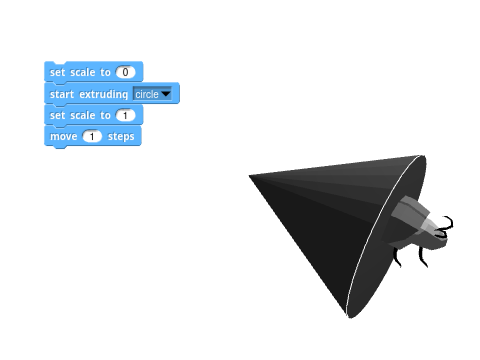
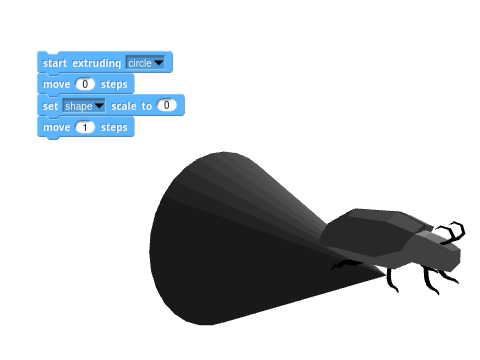
updated docs

Changed region(s): [[0.3125, 0.3972, 0.9688, 0.9167], [0.0625, 0.1222, 0.4062, 0.4278]]

diff --git a/docs/index.md b/docs/index.md
@@ -1,6 +1,6 @@
 # 3D Beetle Extension
 ## A Tiny Bit of History
-The 3D Beetle extension is heavily inspired in [Beetle Blocks](http://beetleblocks.com) Snap*!* mod, orignally designed by Eric Rosenbaum and Duks Koschitz and developed by Bernat Romagosa during the years 2014-2020.
+The 3D Beetle extension is heavily inspired in [Beetle Blocks](http://beetleblocks.com) Snap<em>!</em> mod, orignally designed by Eric Rosenbaum and Duks Koschitz and developed by Bernat Romagosa during the years 2014-2020.
 
 Beetle Blocks was aimed at 3D fabrication, especially targetting 3D printing, which is why the 3D Beetle extension also allows exporting the generated geometry for 3D printing.
 
@@ -23,7 +23,7 @@ This character is to 3D what the Lego turtle is to 2D. Turtles can move on a 2D 
 
 ### Movement and Rotation
 
-You can **move** and **rotate** the Beetle by using its particular movement and rotation blocks. These work very much like the usual *Motion* blocks in Snap*!*, but the extra Z axis makes things slightly more complicated.
+You can **move** and **rotate** the Beetle by using its particular movement and rotation blocks. These work very much like the usual *Motion* blocks in Snap<em>!</em>, but the extra Z axis makes things slightly more complicated.
 
 ![The movement and rotation axes](axes.png)
 
@@ -186,31 +186,46 @@ This can be easily achieved by passing in a list of three points that describe a
 
 ![](proper_cone.png)
 
-A different way to think of a cone is a circular extrusion that scales up from size zero to size one.
+A different way to think of a cone is a circular extrusion that scales down into a point while being extruded.
 
-In the 3D Beetle extension, the global scale affects both the size of your extrusion shapes and the distance of movement of the beetle. For this reason, if you try to move when you've set the scale to zero you'll find out that the beetle doesn't move at all. That's why you need to start from a scale zero, then set it to one, and then move.
+The 3D Beetle extension provides a block that lets you change the scale of the extrusion base, as well as the scale of the movement of the beetle.
+
+To make a cone, you can start by extruding a 0-step circle, then setting the shape scale to zero, then moving as many steps as deep you want your cone to be.
 
 ![](scaled_cone.png)
 
-### Pyramid
+### Staired Pyramid
 
 A pyramid can also be thought of in different ways. An obvious one is to stack a bunch of flat square boxes one on top of the other in decreasing sizes.
 
 ![](pyramid_sketch.png)
 
-To achieve this in the 3D Beetle extension you can again make use of the global scale. Is is important to remember that scale affects both the size of your extrusions and the distance of your movements. That is, with a scale of `0.5`, your shapes are going to be half as big, and the Beetle is also going to move half the distance you ask it to.
+To achieve this in the 3D Beetle extension you can again make use of the shape scale.
 
-![](log_pyramid.png)
+![](pyramid.png)
 
-Notice how, in this attempt, each pyramid floor becomes flatter and flatter. To compensate against the scale affecting the Beetle movement, you need to make it dependant of the scale.
+Notice how, for each floor, you first need to create a zero-length extrusion. Otherwise, your pyramid would lack any stairs.
 
-![](linear_pyramid.png)
-
-Another way to think of a pyramid is as a skewed extrusion of a stairwell. For each corner, the Beetle needs to rotate 90º and set an extrusion step by moving zero steps. Here the trick is to find an elegant way to generate the stairwell.
+Another way to think of a pyramid is as a skewed extrusion of a stairwell. For each corner, the Beetle needs to rotate 90º and set an extrusion step by moving zero steps.
 
 ![](crude_stairwell_pyramid.png)
 
-Of course, generating the stairwell by hand is going to be a very tedious job if you want the pyramid to have an arbitrary number of floors.
+Of course, listing all the points for the stairwell by hand is going to be a very tedious job if you want the pyramid to have any more floors.
+
+A rather cumbersome loop could do the trick, but there are more elegant ways to generate the stairwell. This is where mixing the 3D world of the beetle and the 2D world of Snap<em>!</em> shines. We can just tell a sprite to walk in a stair pattern using regular turtle geometry, and store the sprite position at each of the steps.
+
+For clarity, you could get the sprite to draw the stairwell on the stage so you can see what the profile will look like. Notice how it's important to not close the shape if you don't want to end up with unwanted internal faces, while it's also important to add a horizontal line at the bottom if you want the pyramid to have a bottom face.
+
+![](stair_turtle.png)
+
+Now you don't need the pen code anymore. You can just create a temporary variable and push all the positions into it, then use it as the base shape of your extrusion. While you're at it, you can make the movement steps smaller else you end up with a real-sized pyramid!
+
+![](stairwell_base.png)
+
+The same code from before will now generate a ten-story pyramid.
+
+![](ten_story_pyramid.png)
+
 
 ## Advanced Examples
 
